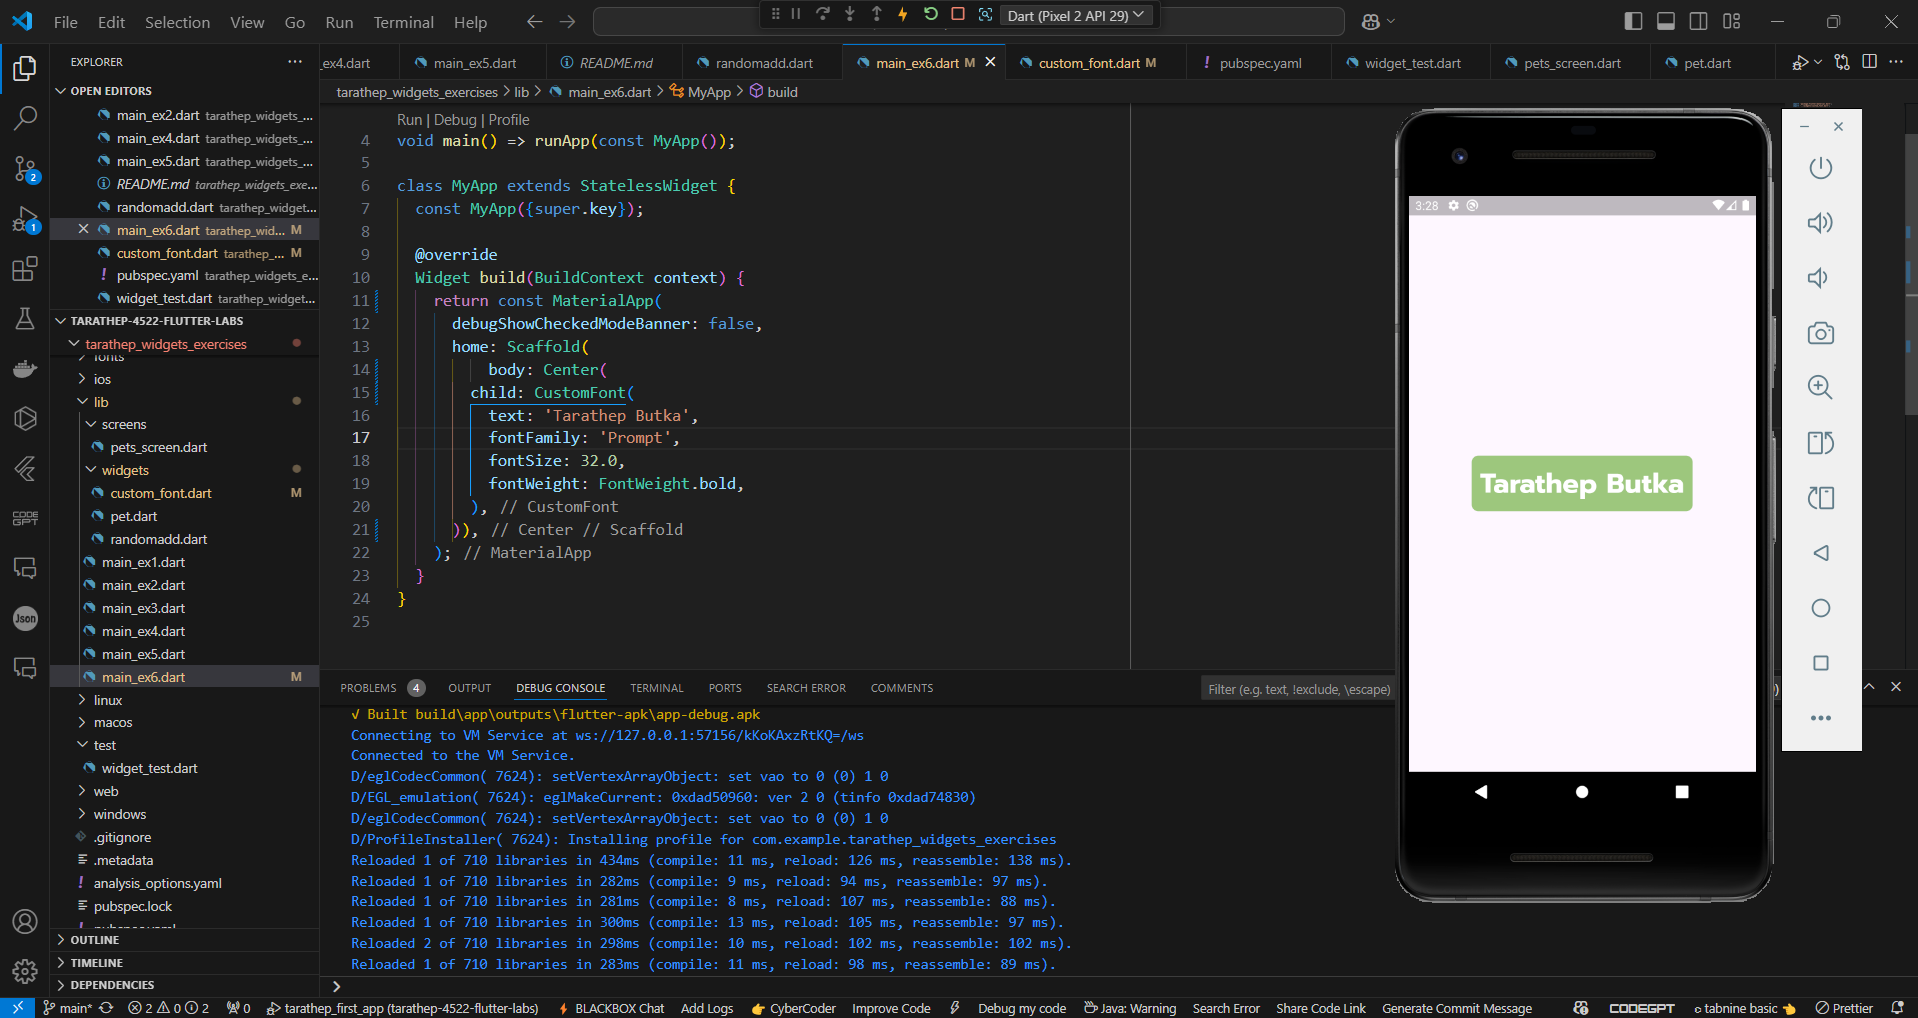
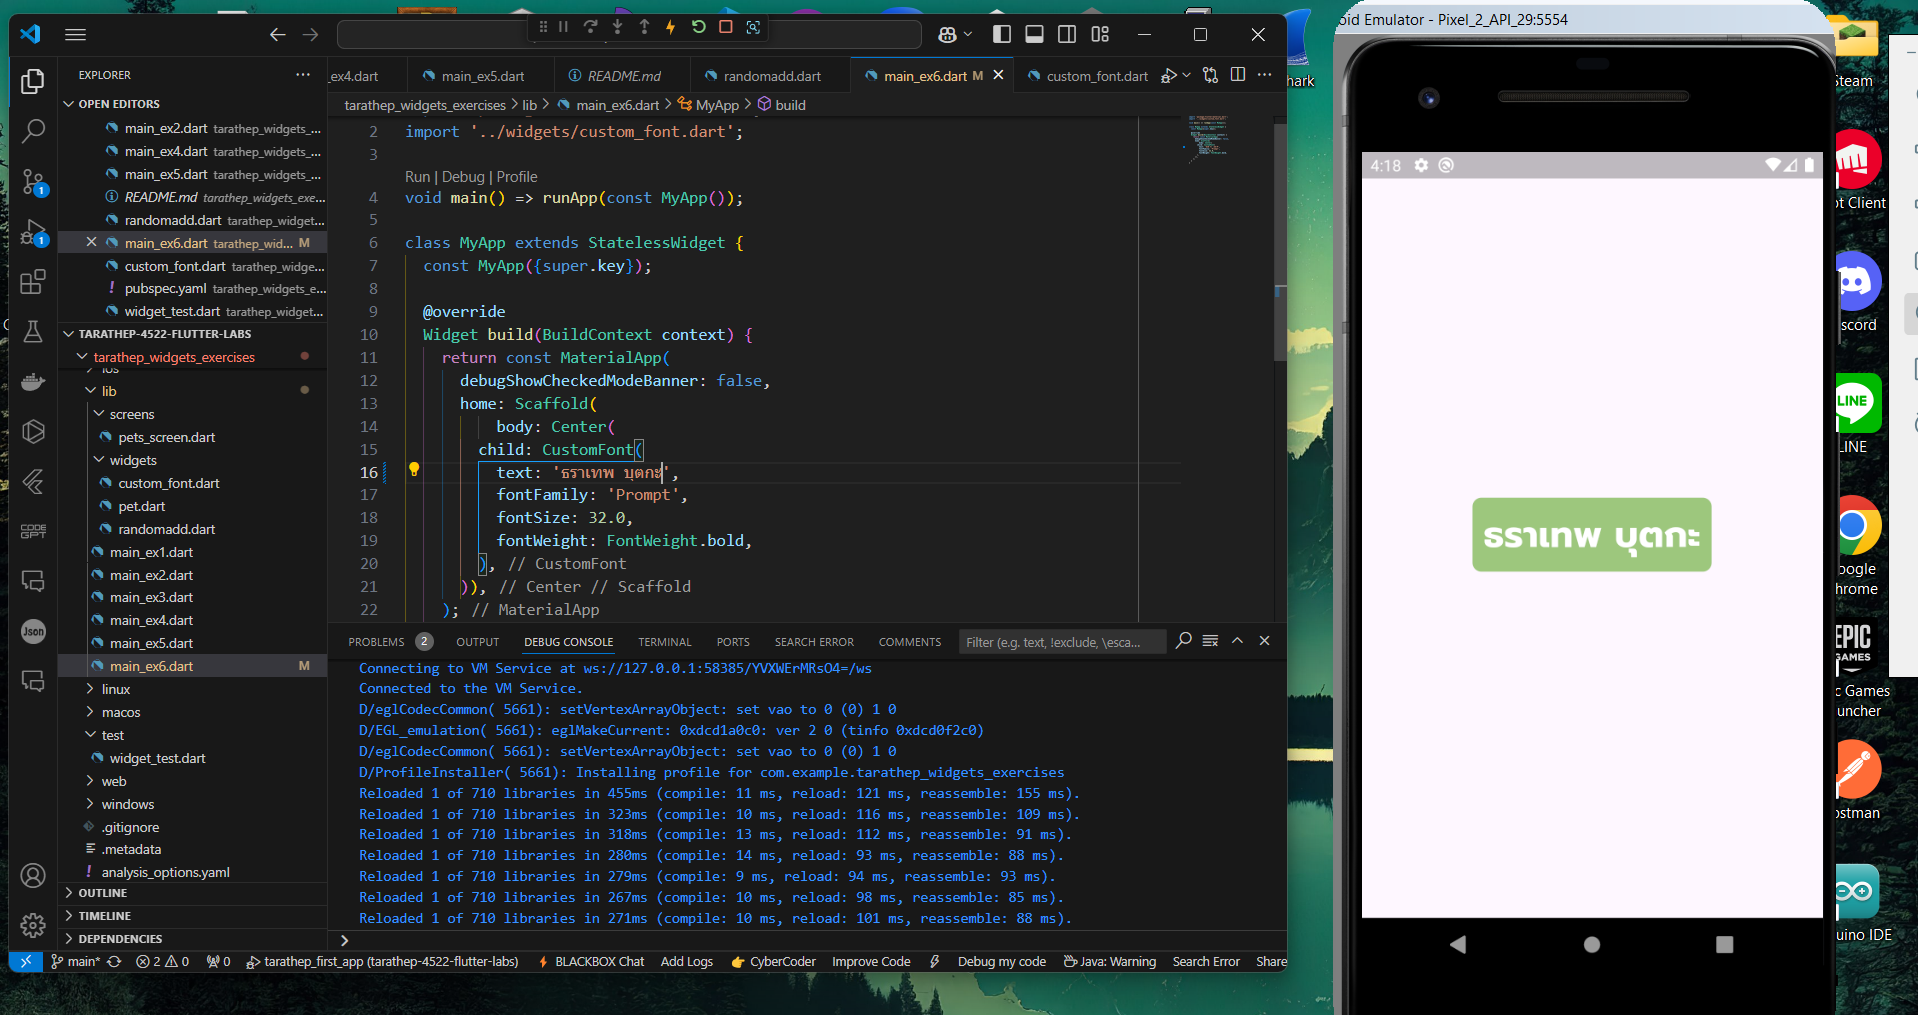
update

Changed region(s): [[0.0, 0.0, 1.0, 1.0], [0.4614, 0.6108, 0.5845, 0.6414]]

diff --git a/tarathep_widgets_exercises/lib/main_ex6.dart b/tarathep_widgets_exercises/lib/main_ex6.dart
@@ -13,7 +13,7 @@ class MyApp extends StatelessWidget {
       home: Scaffold(
           body: Center(
         child: CustomFont(
-          text: 'Tarathep Butka',
+          text: 'ธราเทพ บุตกะ',
           fontFamily: 'Prompt',
           fontSize: 32.0,
           fontWeight: FontWeight.bold,

diff --git a/tarathep_widgets_exercises/lib/main_ex7.dart b/tarathep_widgets_exercises/lib/main_ex7.dart
@@ -1,0 +1,2 @@
+import 'package:flutter/material.dart';
+import 'screens/profile_screen.dart';
